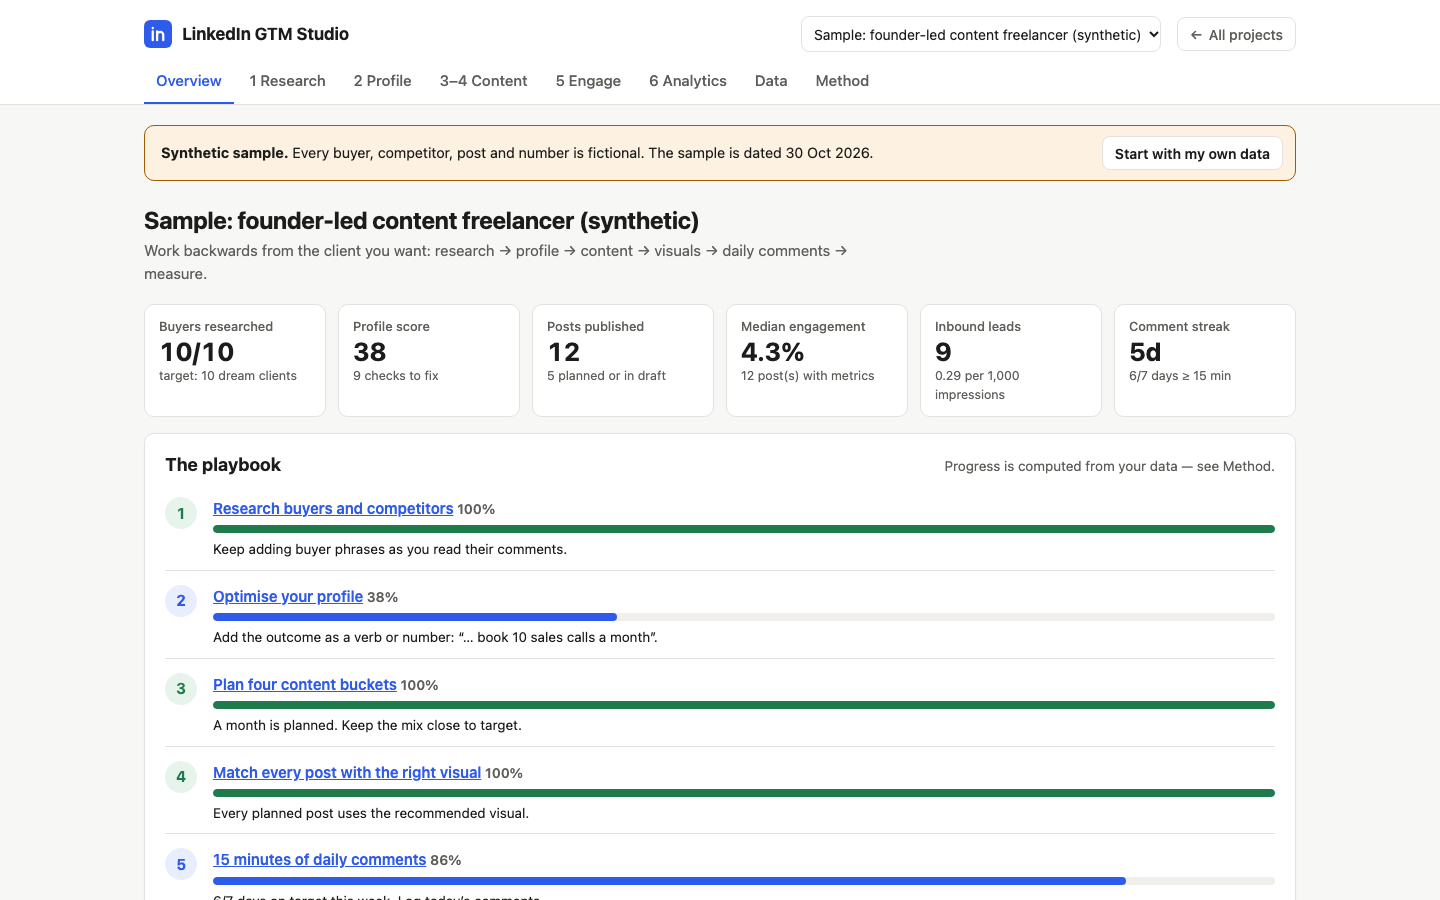
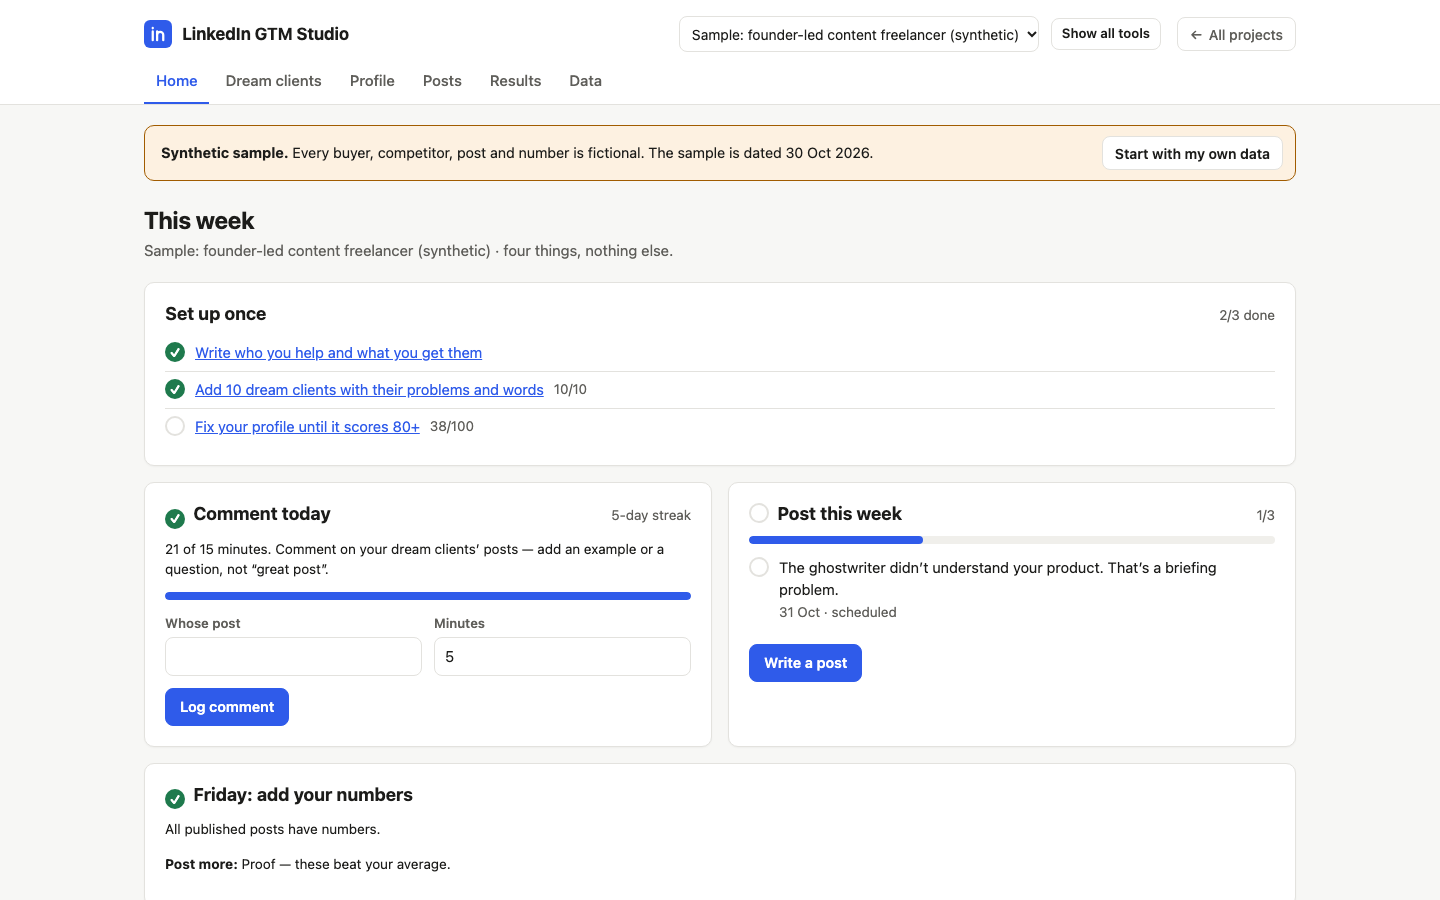
Simple view by default: a four-item This week home

diff --git a/src/ui/research.js b/src/ui/research.js
@@ -41,7 +41,7 @@ export function renderResearch(ctx) {
   return `
   <div class="page-head"><div><h1>1 · Research buyers and competitors</h1>
     <p class="muted">List ${TARGET_BUYERS} people you want as clients. Read their posts and comments; note what they struggle with, what they tried, and the words they use. Then study ${TARGET_COMPETITORS} competitors reaching them.</p></div>
-    <div class="chips">${pill(`${prog.buyersComplete}/${TARGET_BUYERS} buyers complete`)} ${pill(`${prog.competitorsBrokenDown}/${TARGET_COMPETITORS} competitors broken down`)}</div></div>
+    <div class="chips">${pill(`${prog.buyersComplete}/${TARGET_BUYERS} buyers complete`)} <span class="adv">${pill(`${prog.competitorsBrokenDown}/${TARGET_COMPETITORS} competitors broken down`)}</span></div></div>
 
   <div class="grid grid-2">
     <section class="card"><div class="card-head"><h2>Dream buyers</h2><span class="muted small">${ws.buyers.length} listed</span></div>
@@ -65,7 +65,7 @@ export function renderResearch(ctx) {
     </div>
   </section>
 
-  <section class="card"><div class="card-head"><h2>Competitor post breakdown</h2><span class="muted small">${ws.compPosts.length} posts from ${ws.competitors.length} competitors</span></div>
+  <section class="card adv"><div class="card-head"><h2>Competitor post breakdown</h2><span class="muted small">${ws.compPosts.length} posts from ${ws.competitors.length} competitors</span></div>
     <p class="muted small">Engagement score = reactions × ${w.reactions} + comments × ${w.comments} + reposts × ${w.reposts} (weights in Data → Settings). Groups are ranked by median score, so one viral post doesn’t dominate.</p>
     <div class="filter-row">${select('Break down by', 'dim', dim, DIMENSIONS, { attrs: 'data-change="research-dim"' })}</div>
     ${groups.length ? `<div class="chart-box">${horizontalBars({ title: `Median engagement score by ${dim}`, items: groups.map((g) => ({ label: `${g.key} (${g.n})`, value: g.median ?? 0 })), format: (v) => fmt(v) })}</div>` : empty('No competitor posts yet', 'Add a competitor and log their best-performing posts below.')}
@@ -76,7 +76,7 @@ export function renderResearch(ctx) {
     ], top)}` : ''}
   </section>
 
-  <div class="grid grid-2">
+  <div class="grid grid-2 adv">
     <section class="card"><div class="card-head"><h2>Competitors</h2></div>
       ${ws.competitors.length ? `<ul class="timeline">${ws.competitors.map((c) => `<li><div class="row-between"><span><strong>${esc(c.name)}</strong> <span class="muted small">${ws.compPosts.filter((p) => p.competitorId === c.id).length} posts</span></span>${btn('Delete', 'delete', { cls: 'small danger', data: { type: 'competitors', id: c.id } })}</div></li>`).join('')}</ul>` : '<p class="muted small">None yet.</p>'}
       <form data-form="competitor" class="form-grid mt">${input('Competitor name', 'name', '', { attrs: 'required' })}${input('Profile URL', 'url', '', { type: 'url' })}<div class="actions full">${btn('Add competitor', '', { cls: 'primary', type: 'submit' })}</div></form>
@@ -97,7 +97,7 @@ export function renderResearch(ctx) {
     </section>
   </div>
 
-  <section class="card"><div class="card-head"><h2>Ideas from outside LinkedIn</h2><span class="muted small">X, newsletters, podcasts — build on them with your experience, examples or opinion.</span></div>
+  <section class="card adv"><div class="card-head"><h2>Ideas from outside LinkedIn</h2><span class="muted small">X, newsletters, podcasts — build on them with your experience, examples or opinion.</span></div>
     ${ws.outsideIdeas.length ? table('Saved ideas', [
       { label: 'Idea', html: (o) => `<div class="cell-main">${esc(o.summary)}</div><div class="cell-sub">${esc(o.source)}</div>` },
       { label: 'Your take', html: (o) => (o.myTake ? esc(o.myTake) : '<span class="badge issue">Add your take</span>') },

diff --git a/src/ui/home.js b/src/ui/home.js
@@ -1,0 +1,50 @@
+// Simple mode home: set up once, comment today, post this week, add Friday numbers.
+import { weekStatus } from '../lib/progress.js';
+import { BUCKETS } from '../lib/constants.js';
+import { formatDate } from '../lib/dates.js';
+import { esc, input, btn, meter } from './h.js';
+
+const bucketName = (id) => BUCKETS.find((b) => b.id === id)?.short ?? id;
+
+export function renderHome(ctx) {
+  const ws = ctx.ws();
+  const s = weekStatus(ws, ctx.today());
+  const todayDone = s.today.minutes >= s.today.target;
+  const postsDone = s.posts.count >= s.posts.target;
+  const tick = (done) => `<span class="tick ${done ? 'is-done' : ''}" aria-hidden="true">${done ? '✓' : ''}</span>`;
+  return `
+  <div class="page-head"><div><h1>This week</h1><p class="muted">${esc(ws.name)} · four things, nothing else.</p></div></div>
+
+  ${s.setupDone ? '' : `<section class="card"><div class="card-head"><h2>Set up once</h2><span class="muted small">${s.setup.filter((x) => x.done).length}/3 done</span></div>
+    <ul class="todo">${s.setup.map((x) => `<li>${tick(x.done)}<a href="#${x.view}">${esc(x.label)}</a>${x.detail ? ` <span class="muted small">${esc(x.detail)}</span>` : ''}</li>`).join('')}</ul>
+  </section>`}
+
+  <div class="grid grid-2">
+    <section class="card"><div class="card-head"><h2>${tick(todayDone)} Comment today</h2><span class="muted small">${s.today.streak}-day streak</span></div>
+      <p class="small">${s.today.minutes} of ${s.today.target} minutes. Comment on your dream clients’ posts — add an example or a question, not “great post”.</p>
+      ${meter(s.today.minutes / s.today.target, 'Minutes today')}
+      <form data-form="engagement" class="form-grid mt">
+        <input type="hidden" name="date" value="${esc(ctx.today())}">
+        ${input('Whose post', 'person', '', { attrs: 'list="buyer-names" required' })}
+        <datalist id="buyer-names">${ws.buyers.map((b) => `<option value="${esc(b.name)}">`).join('')}</datalist>
+        ${input('Minutes', 'minutes', '5', { type: 'number', attrs: 'min="1" max="240"' })}
+        <input type="hidden" name="relation" value="icp"><input type="hidden" name="note" value="">
+        <div class="actions full">${btn('Log comment', '', { cls: 'primary', type: 'submit' })}</div>
+      </form>
+    </section>
+
+    <section class="card"><div class="card-head"><h2>${tick(postsDone)} Post this week</h2><span class="muted small">${s.posts.count}/${s.posts.target}</span></div>
+      ${meter(s.posts.count / s.posts.target, 'Posts this week')}
+      ${s.posts.items.length ? `<ul class="todo">${s.posts.items.map((p) => `<li>${tick(p.status === 'published')}<span>${esc(p.title)}<br><span class="muted small">${formatDate(p.date, { year: false })} · ${esc(p.status)}</span></span></li>`).join('')}</ul>` : '<p class="muted small">Nothing posted or scheduled yet this week.</p>'}
+      <div class="actions mt"><a class="btn primary" href="#content">Write a post</a></div>
+    </section>
+  </div>
+
+  <section class="card"><div class="card-head"><h2>${tick(s.friday.missingNumbers === 0)} Friday: add your numbers</h2></div>
+    ${s.friday.missingNumbers
+      ? `<p class="small">${s.friday.missingNumbers} published post(s) still need their numbers from LinkedIn (impressions, reactions, comments, reposts, and any DMs they brought).</p><div class="actions"><a class="btn" href="#analytics">Add numbers</a></div>`
+      : '<p class="small">All published posts have numbers.</p>'}
+    ${s.friday.winners.length ? `<p class="small mt"><strong>Post more:</strong> ${s.friday.winners.map(bucketName).map(esc).join(', ')} — these beat your average.</p>` : ''}
+  </section>`;
+}
+

diff --git a/src/app.js b/src/app.js
@@ -4,6 +4,7 @@ import { emptyState, validateState, activeWorkspace, updateWorkspace, appendLog 
 import { systemToday, formatDate } from './lib/dates.js';
 import { formData } from './ui/h.js';
 import { renderOverview } from './ui/overview.js';
+import { renderHome } from './ui/home.js';
 import { renderResearch, researchForms, researchActions, researchChanges } from './ui/research.js';
 import { renderProfile, profileForms, profileActions, profileLive } from './ui/profile.js';
 import { renderContent, contentForms, contentActions, contentChanges, contentLive } from './ui/content.js';
@@ -14,12 +15,14 @@ import { renderMethod } from './ui/method.js';
 
 const SAMPLE_URL = 'sample-data/sample-workspace.json';
 const START_EMPTY_KEY = `${STORAGE_KEY}.startEmpty`;
-const RENDERERS = { overview: renderOverview, research: renderResearch, profile: renderProfile, content: renderContent, engage: renderEngage, analytics: renderAnalytics, data: renderData, method: renderMethod };
+const SIMPLE_KEY = `${STORAGE_KEY}.simple`;
+const RENDERERS = { overview: (c) => (c.ui.simple ? renderHome(c) : renderOverview(c)), research: renderResearch, profile: renderProfile, content: renderContent, engage: renderEngage, analytics: renderAnalytics, data: renderData, method: renderMethod };
 const FORMS = { ...researchForms, ...profileForms, ...contentForms, ...engageForms, ...analyticsForms, ...dataForms };
 const CHANGES = { ...researchChanges, ...contentChanges, ...analyticsChanges };
 const LIVE = { ...profileLive, ...contentLive };
 
-const ctx = { state: emptyState(), storageOk: true, ui: { view: 'overview', edit: {} } };
+const ctx = { state: emptyState(), storageOk: true, ui: { view: 'overview', edit: {}, simple: true } };
+try { ctx.ui.simple = localStorage.getItem(SIMPLE_KEY) !== '0'; } catch { /* default: simple */ }
 ctx.ws = () => activeWorkspace(ctx.state);
 // The sample is pinned to its own date so its streaks and calendars stay meaningful.
 ctx.today = () => (ctx.state.meta?.synthetic && ctx.state.meta.demoToday) || systemToday();
@@ -88,6 +91,9 @@ function renderBanner() {
 
 function render() {
   renderBanner();
+  document.body.classList.toggle('simple', ctx.ui.simple);
+  document.getElementById('mode-toggle').textContent = ctx.ui.simple ? 'Show all tools' : 'Simple view';
+  document.querySelectorAll('#tabs a[data-simple]').forEach((a) => { a.textContent = ctx.ui.simple ? a.dataset.simple : a.dataset.full; });
   document.querySelectorAll('#tabs a').forEach((a) => (a.dataset.tab === ctx.ui.view ? a.setAttribute('aria-current', 'page') : a.removeAttribute('aria-current')));
   document.getElementById('view').innerHTML = RENDERERS[ctx.ui.view](ctx);
 }
@@ -111,6 +117,11 @@ const ACTIONS = {
     c.update((ws) => ({ ...ws, [el.dataset.type]: ws[el.dataset.type].filter((x) => x.id !== el.dataset.id), ...(el.dataset.type === 'competitors' ? { compPosts: ws.compPosts.filter((p) => p.competitorId !== el.dataset.id) } : {}) }), 'Deleted.');
   },
   'start-own': (c) => c.reset(),
+  'toggle-simple': (c) => {
+    c.ui.simple = !c.ui.simple;
+    try { localStorage.setItem(SIMPLE_KEY, c.ui.simple ? '1' : '0'); } catch { /* per-tab only */ }
+    render();
+  },
 };
 
 function init() {

diff --git a/src/lib/progress.js b/src/lib/progress.js
@@ -4,7 +4,8 @@ import { researchProgress, languageBank } from './research.js';
 import { auditProfile } from './profile.js';
 import { recommendVisual } from './content.js';
 import { engagementSummary } from './engagement.js';
-import { publishedWithMetrics } from './analytics.js';
+import { publishedWithMetrics, engagementRate, performanceBy } from './analytics.js';
+import { startOfWeek, diffDays } from './dates.js';
 
 const clamp = (x) => Math.max(0, Math.min(1, x));
 
@@ -52,4 +53,30 @@ export function playbookProgress(ws, today) {
     const status = p.progress >= 0.999 ? 'done' : p.progress > 0 ? 'in-progress' : 'not-started';
     return { ...s, ...p, status };
   });
+}
+
+/**
+ * Simple mode: the four things that matter this week.
+ * setup (once) · today's comments · this week's posts · Friday numbers.
+ */
+export function weekStatus(ws, today) {
+  const r = researchProgress(ws, { buyers: TARGET_BUYERS, competitors: TARGET_COMPETITORS });
+  const audit = auditProfile(ws.profile, { phrases: languageBank(ws.buyers).phrases.map((p) => p.text), offer: ws.offer });
+  const setup = [
+    { id: 'offer', label: 'Write who you help and what you get them', done: !!(ws.offer.audience.trim() && ws.offer.outcome.trim()), view: 'profile' },
+    { id: 'buyers', label: `Add ${TARGET_BUYERS} dream clients with their problems and words`, done: r.buyersComplete >= TARGET_BUYERS, detail: `${r.buyersComplete}/${TARGET_BUYERS}`, view: 'research' },
+    { id: 'profile', label: 'Fix your profile until it scores 80+', done: audit.score >= 80, detail: `${audit.score}/100`, view: 'profile' },
+  ];
+  const minutesToday = ws.engagement.filter((e) => e.date === today).reduce((s, e) => s + (e.minutes || 0), 0);
+  const weekStart = startOfWeek(today);
+  const thisWeek = ws.posts.filter((p) => p.date && diffDays(weekStart, p.date) >= 0 && diffDays(weekStart, p.date) < 7 && (p.status === 'published' || p.status === 'scheduled'));
+  const missingNumbers = ws.posts.filter((p) => p.status === 'published' && engagementRate(p.metrics) === null && p.date && p.date <= today);
+  const winners = performanceBy(ws.posts, 'bucket', { minSample: ws.settings.minSample }).filter((g) => g.verdict === 'double-down').map((g) => g.key);
+  return {
+    setup,
+    setupDone: setup.every((s) => s.done),
+    today: { minutes: minutesToday, target: ws.settings.dailyEngageMinutes, streak: engagementSummary(ws.engagement, today, ws.settings.dailyEngageMinutes).streak },
+    posts: { count: thisWeek.length, target: ws.settings.weeklyPosts, items: thisWeek },
+    friday: { missingNumbers: missingNumbers.length, winners },
+  };
 }

diff --git a/src/ui/analytics.js b/src/ui/analytics.js
@@ -12,7 +12,7 @@ const VERDICT_CLS = { 'double-down': 'won', cut: 'lost', keep: '', 'need-data': 
 
 export function renderAnalytics(ctx) {
   const ws = ctx.ws();
-  const dim = ctx.ui.analyticsDim ?? 'bucket';
+  const dim = ctx.ui.simple ? 'bucket' : ctx.ui.analyticsDim ?? 'bucket';
   const t = totals(ws.posts);
   const groups = performanceBy(ws.posts, dim, { minSample: ws.settings.minSample });
   const label = (k) => (dim === 'bucket' ? BUCKETS.find((b) => b.id === k)?.short ?? k : k);
@@ -21,7 +21,7 @@ export function renderAnalytics(ctx) {
   return `
   <div class="page-head"><div><h1>6 · Measure, double down, cut</h1>
     <p class="muted">Copy each post’s numbers from LinkedIn’s post analytics (or import a CSV on the Data page). Groups need at least ${ws.settings.minSample} posts before a verdict.</p></div></div>
-  <div class="kpis">
+  <div class="kpis adv">
     <div class="kpi"><div class="label">Published</div><div class="value">${t.published}</div><div class="sub">${t.measured} with metrics</div></div>
     <div class="kpi"><div class="label">Impressions</div><div class="value">${fmt(t.impressions)}</div><div class="sub">sum of measured posts</div></div>
     <div class="kpi"><div class="label">Median engagement rate</div><div class="value">${pct(t.medianER)}</div><div class="sub">(reactions+comments+reposts) ÷ impressions</div></div>
@@ -29,7 +29,7 @@ export function renderAnalytics(ctx) {
     <div class="kpi"><div class="label">Inbound leads</div><div class="value">${fmt(t.inbound)}</div><div class="sub">DMs / calls you logged</div></div>
     <div class="kpi"><div class="label">Leads per 1k impressions</div><div class="value">${t.inboundPer1k === null ? 'n/a' : t.inboundPer1k.toFixed(2)}</div><div class="sub">the number that pays</div></div>
   </div>
-  <section class="card"><div class="card-head"><h2>What’s working</h2>${select('Compare by', 'dim', dim, DIMS, { attrs: 'data-change="analytics-dim"' })}</div>
+  <section class="card"><div class="card-head"><h2>What’s working</h2><span class="adv">${select('Compare by', 'dim', dim, DIMS, { attrs: 'data-change="analytics-dim"' })}</span></div>
     ${groups.length ? `
       <div class="chart-box">${horizontalBars({ title: `Median engagement rate by ${dim}`, items: groups.map((g) => ({ label: `${label(g.key)} (${g.n})`, value: g.medianER ?? 0 })), format: (v) => pct(v) })}</div>
       ${table('Verdict = group median vs overall median: ≥1.2× double down, ≤0.8× cut', [

diff --git a/index.html b/index.html
@@ -14,18 +14,18 @@
     <div class="site-header__inner">
       <div class="site-header__top">
         <a class="site-brand" href="#overview"><svg class="site-brand__icon" viewBox="0 0 32 32" aria-hidden="true" focusable="false"><rect width="32" height="32" rx="7"/><path class="glyph-s" stroke-width="2.6" d="M10 13v10M10 9v.5M15 23v-6a3.5 3.5 0 0 1 7 0v6M15 13v10"/></svg><span class="site-brand__name">LinkedIn GTM Studio</span></a>
-        <div class="site-header__extra"><label for="ws-switch" class="sr-only">Workspace</label><select id="ws-switch" class="ws-switch"></select></div>
+        <div class="site-header__extra"><label for="ws-switch" class="sr-only">Workspace</label><select id="ws-switch" class="ws-switch"></select><button type="button" class="btn small" id="mode-toggle" data-action="toggle-simple"></button></div>
         <a class="site-home" href="https://dash-boop0.github.io/"><span aria-hidden="true">←</span> All projects</a>
       </div>
       <nav class="site-tabs" id="tabs" aria-label="Main">
-        <a href="#overview" data-tab="overview">Overview</a>
-        <a href="#research" data-tab="research">1 Research</a>
-        <a href="#profile" data-tab="profile">2 Profile</a>
-        <a href="#content" data-tab="content">3–4 Content</a>
-        <a href="#engage" data-tab="engage">5 Engage</a>
-        <a href="#analytics" data-tab="analytics">6 Analytics</a>
+        <a href="#overview" data-tab="overview" data-simple="Home" data-full="Overview">Overview</a>
+        <a href="#research" data-tab="research" data-simple="Dream clients" data-full="1 Research">1 Research</a>
+        <a href="#profile" data-tab="profile" data-simple="Profile" data-full="2 Profile">2 Profile</a>
+        <a href="#content" data-tab="content" data-simple="Posts" data-full="3–4 Content">3–4 Content</a>
+        <a href="#engage" data-tab="engage" class="adv">5 Engage</a>
+        <a href="#analytics" data-tab="analytics" data-simple="Results" data-full="6 Analytics">6 Analytics</a>
         <a href="#data" data-tab="data">Data</a>
-        <a href="#method" data-tab="method">Method</a>
+        <a href="#method" data-tab="method" class="adv">Method</a>
       </nav>
     </div>
   </header>

diff --git a/src/ui/content.js b/src/ui/content.js
@@ -53,7 +53,7 @@ export function renderContent(ctx) {
     <p class="muted">Four buckets, each fed by your research. Every post gets a visual that fits what it shows. Mix below covers the 28 days from ${formatDate(addDays(today, -13), { year: false })}.</p></div>
     <div class="chips">${pill(`Next post: ${bucketLabel(next)}`)}</div></div>
 
-  <div class="buckets">${BUCKETS.map((b) => {
+  <div class="buckets adv">${BUCKETS.map((b) => {
     const m = mix.find((x) => x.bucket === b.id);
     return `<section class="card bucket" style="--bucket:${b.color}"><h2>${esc(b.label)}</h2><p class="small muted">${esc(b.help)}</p>
       <p class="small"><strong class="tabular">${m.count}</strong> post(s) · ${pct(m.share, 0)} of mix · target ${pct(m.target, 0)}</p></section>`;
@@ -67,7 +67,7 @@ export function renderContent(ctx) {
     </section>
   </div>
 
-  <section class="card"><div class="card-head"><h2>Next 4 weeks</h2><span class="muted small">Target: ${ws.settings.weeklyPosts} posts / week</span></div>
+  <section class="card adv"><div class="card-head"><h2>Next 4 weeks</h2><span class="muted small">Target: ${ws.settings.weeklyPosts} posts / week</span></div>
     <div class="weeks">${cal.map((w) => `<div class="week"><h3>${formatDate(w.from, { year: false })} – ${formatDate(w.to, { year: false })} <span class="muted small">${w.items.length}/${ws.settings.weeklyPosts}</span></h3>
       ${w.items.length ? `<ul>${w.items.map((p) => `<li><button type="button" class="btn link" data-action="edit" data-type="post" data-id="${esc(p.id)}">${esc(p.title || '(untitled)')}</button><br><span class="muted small">${formatDate(p.date, { year: false })} · ${esc(BUCKETS.find((b) => b.id === p.bucket)?.short)} · ${esc(p.status)}</span></li>`).join('')}</ul>` : '<p class="muted small">Nothing planned.</p>'}</div>`).join('')}</div>
   </section>

diff --git a/tests/logic.test.js b/tests/logic.test.js
@@ -226,3 +226,26 @@ test('sample workspace is valid, labelled synthetic, and exercises every verdict
   assert.equal(steps.length, 6);
   assert.ok(steps.find((s) => s.id === 'profile').progress < 0.6, 'sample profile is deliberately weak');
 });
+
+test('weekStatus: setup, today, this week and Friday numbers', async () => {
+  const { weekStatus } = await import('../src/lib/progress.js');
+  const ws = emptyWorkspace();
+  let s = weekStatus(ws, '2026-10-30');
+  assert.equal(s.setupDone, false);
+  assert.deepEqual(s.setup.map((x) => x.done), [false, false, false]);
+  ws.offer = { audience: 'SaaS founders', outcome: 'book calls', proof: '' };
+  ws.engagement = [{ date: '2026-10-30', minutes: 10 }, { date: '2026-10-30', minutes: 5 }, { date: '2026-10-29', minutes: 15 }];
+  const m = (impressions) => ({ impressions, reactions: impressions ? 10 : null, comments: null, reposts: null });
+  ws.posts = [
+    { date: '2026-10-27', status: 'published', bucket: 'problems', metrics: m(null) }, // Monday this week, no numbers
+    { date: '2026-10-31', status: 'scheduled', bucket: 'proof', metrics: m(null) },
+    { date: '2026-10-25', status: 'published', bucket: 'proof', metrics: m(1000) }, // last week
+    { date: '2026-10-28', status: 'draft', bucket: 'proof', metrics: m(null) },
+  ];
+  s = weekStatus(ws, '2026-10-30');
+  assert.equal(s.setup[0].done, true);
+  assert.equal(s.today.minutes, 15);
+  assert.equal(s.today.streak, 2);
+  assert.equal(s.posts.count, 2);
+  assert.equal(s.friday.missingNumbers, 1);
+});

diff --git a/src/styles.css b/src/styles.css
@@ -400,3 +400,11 @@ input[type="number"], input[type="url"] { width: 100%; padding: 7px 10px; border
 .site-tabs { overflow-x: auto; }
 .hint .btn.link { white-space: normal; text-align: left; overflow-wrap: anywhere; }
 .step.is-done .meter span { background: var(--good); }
+body.simple .adv { display: none !important; }
+.todo { list-style: none; margin: 0; padding: 0; }
+.todo li { display: flex; gap: 10px; align-items: flex-start; padding: 7px 0; border-bottom: 1px solid var(--border); font-size: .92rem; }
+.todo li:last-child { border-bottom: 0; }
+.tick { flex: none; width: 20px; height: 20px; border-radius: 50%; border: 2px solid var(--border); display: inline-grid; place-items: center; font-size: .75rem; font-weight: 800; vertical-align: -3px; }
+.tick.is-done { background: var(--good); border-color: var(--good); color: #fff; }
+.card-head h2 .tick { margin-right: 4px; }
+#view > .grid + .card, #view > .card + .grid, #view > .grid + .grid { margin-top: 16px; }

diff --git a/src/lib/engagement.js b/src/lib/engagement.js
@@ -38,7 +38,7 @@ export function engagementSummary(entries, today, target, days = 7) {
     days,
     comments: recent.length,
     icpShare: ratio(icp, recent.length),
-    people: new Set(recent.map((e) => e.person.trim().toLowerCase()).filter(Boolean)).size,
+    people: new Set(recent.map((e) => String(e.person ?? '').trim().toLowerCase()).filter(Boolean)).size,
     streak: streak(entries, today, target),
   };
 }

diff --git a/README.md b/README.md
@@ -11,6 +11,13 @@ Built for freelancers who run LinkedIn for themselves **and** for clients: each 
 
 ![Overview of the six-step playbook with progress and next actions](docs/screenshot.png)
 
+## Simple view (default)
+
+Opens on a **This week** screen with just four things: set up once (offer, 10 dream clients, profile 80+),
+comment today (log it right there), post this week, and add Friday numbers. The tabs are cut down to
+Home · Dream clients · Profile · Posts · Results · Data. **Show all tools** in the header brings back everything below;
+the choice is remembered in the browser.
+
 ## Features
 
 | Step | In the app |
@@ -69,7 +76,7 @@ views in `src/ui/`, state in `localStorage`. See [docs/ARCHITECTURE.md](docs/ARC
 [docs/DEMO.md](docs/DEMO.md) for a 2-minute walkthrough.
 
 ```bash
-npm test     # node --test, 32 tests: every score, verdict, importer and the CLI against hand-computed cases
+npm test     # node --test, 33 tests: every score, verdict, importer and the CLI against hand-computed cases
 npm run generate   # rebuild the synthetic sample in sample-data/
 ```
 

diff --git a/docs/DEMO.md b/docs/DEMO.md
@@ -1,5 +1,6 @@
 # 2-minute demo
 
+0. **Home, simple view** — the four things for this week; log a comment from here. Click **Show all tools** for the rest.
 1. **Overview** (0:00) — the six steps, each with progress and one next action, computed from the data. The sample's weak spot is the profile (38/100).
 2. **1 Research** (0:20) — the language bank: “content gets likes but no leads” was said by 4 of 10 buyers. Switch the breakdown to *Hook type* to see which hooks score highest for competitors.
 3. **2 Profile** (0:45) — click the suggested headline, then type an About section that names the buyer's problem, your approach, proof and “book a call”. The audit climbs as you type.
